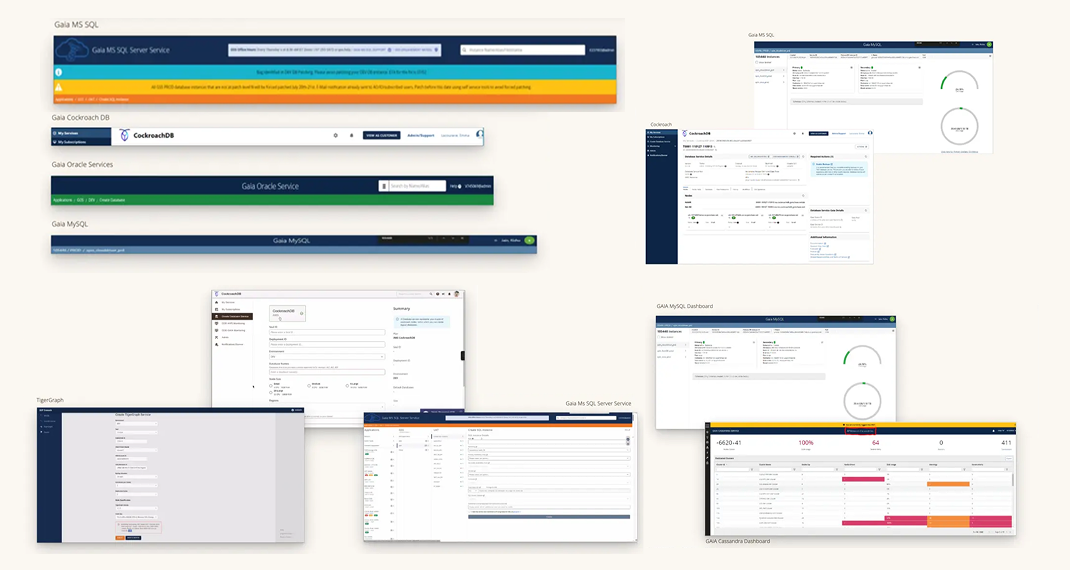
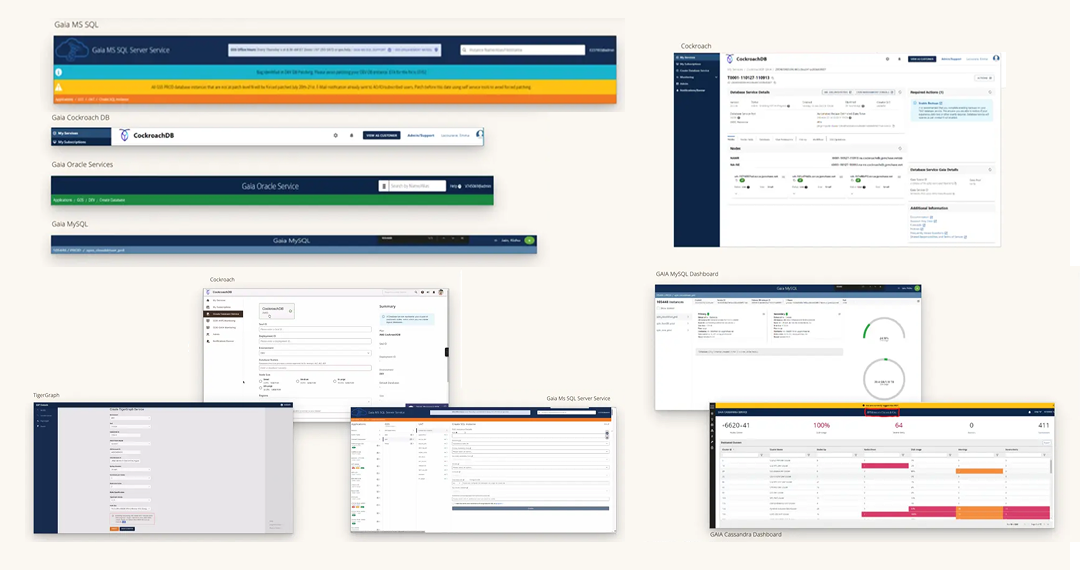
feat: update image styling and remove background in Meridian page

diff --git a/src/pages/Meridian.tsx b/src/pages/Meridian.tsx
@@ -240,11 +240,11 @@ export default function Meridian() {
             </Reveal>
           </div>
           <Reveal delay={0.1}>
-            <div className={`${contentWidth} mt-4 md:mt-[70px] rounded-[20px] bg-white overflow-hidden min-h-[180px] md:min-h-[474px] flex items-center justify-center p-6 md:p-12`}>
+            <div className={`${contentWidth} mt-4 md:mt-[70px]`}>
               <img
                 src="/images/legacy-databases-experiences.png"
                 alt="Collage of legacy database control-plane interfaces — Gaia MS SQL, Cockroach DB, Oracle Services, MySQL, TigerGraph, and Cassandra dashboards — each with different navigation, terminology, and visual styling"
-                className="w-full h-full object-contain"
+                className="w-full h-auto block"
                 loading="lazy"
               />
             </div>
